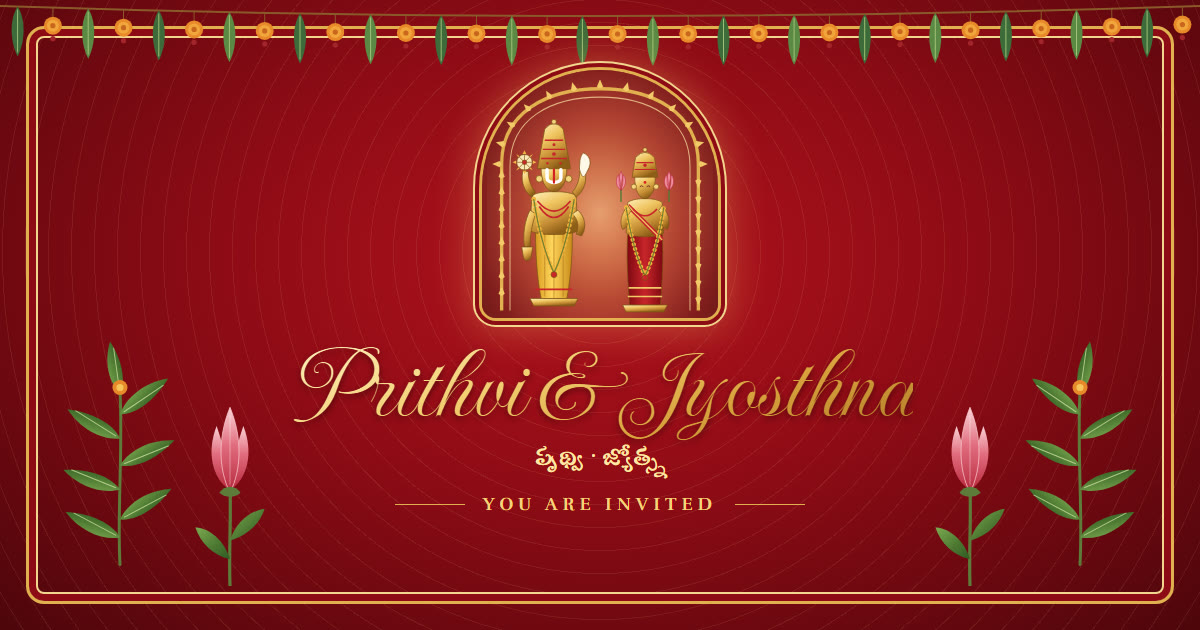
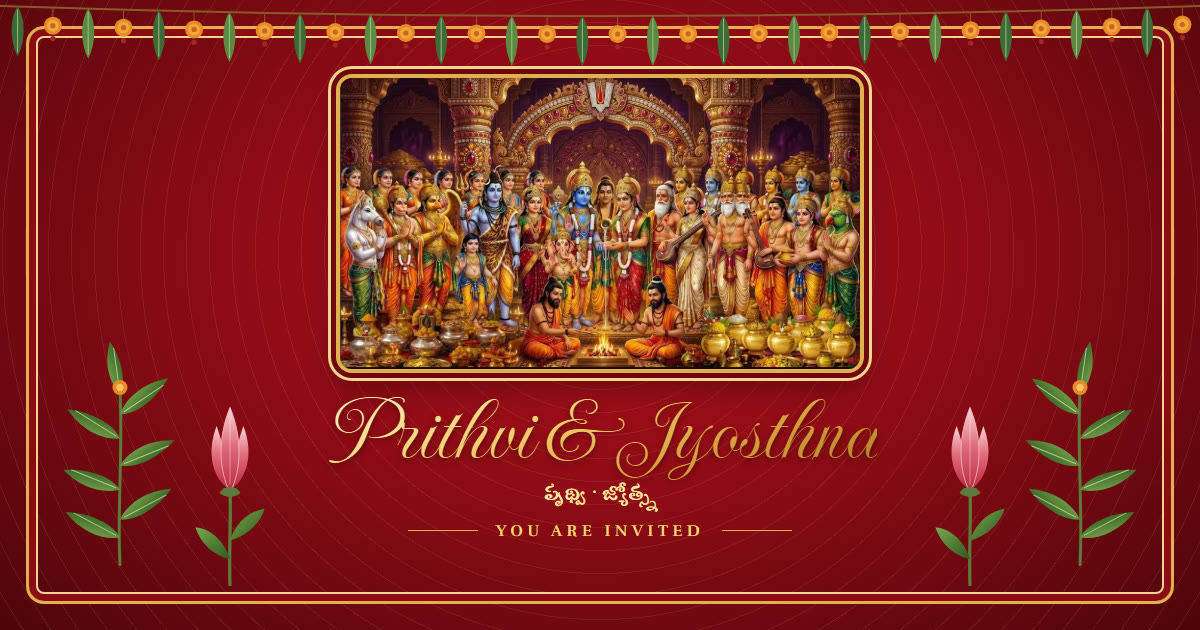
Hero back to names in the sanctum; Srinivasa Kalyanam painting above the mandapam and on the WhatsApp card

Changed region(s): [[0.2467, 0.0905, 0.7708, 0.8746]]

diff --git a/index.html b/index.html
@@ -306,7 +306,7 @@
       <div class="stage" id="stage">
 
         <!-- FAR: dawn sky, halo, string lights, ground, muggu -->
-        <svg class="layer l-far" viewBox="0 0 440 780" preserveAspectRatio="xMidYMid slice" aria-hidden="true">
+        <svg class="layer l-far" viewBox="0 -100 440 880" preserveAspectRatio="xMidYMid slice" aria-hidden="true">
           <defs>
             <linearGradient id="skyY" x1="0" x2="0" y1="0" y2="1">
               <stop offset="0" stop-color="#FBF3E4"/>
@@ -326,7 +326,7 @@
             </linearGradient>
             <filter id="softBlur" x="-20%" y="-50%" width="140%" height="200%"><feGaussianBlur stdDeviation="7"/></filter>
           </defs>
-          <rect x="-40" y="-80" width="520" height="940" fill="url(#skyY)"/>
+          <rect x="-40" y="-190" width="520" height="1050" fill="url(#skyY)"/>
           <ellipse class="halo" cx="220" cy="480" rx="270" ry="310" fill="url(#halo)"/>
           <!-- distant temple gopuram silhouettes -->
           <g fill="#D9A867" opacity=".55">
@@ -346,7 +346,7 @@
         </svg>
 
         <!-- INNER: kumkum-red sanctum with names & date, revealed when the tera is lowered -->
-        <svg class="layer l-inner" viewBox="0 0 440 780" preserveAspectRatio="xMidYMid slice" aria-hidden="true">
+        <svg class="layer l-inner" viewBox="0 -100 440 880" preserveAspectRatio="xMidYMid slice" aria-hidden="true">
           <defs>
             <clipPath id="opening"><path d="M94 690V430C94 400 140 384 220 382C300 384 346 400 346 430V690Z"/></clipPath>
             <radialGradient id="sanctum" cx="50%" cy="58%" r="70%">
@@ -388,81 +388,24 @@
               <path d="M209 430c0-13 5-20 11-20s11 7 11 20h3v3h-28v-3Z" fill="url(#bellG)"/>
               <circle cx="220" cy="436" r="2.6" fill="#8E5E18"/>
             </g>
-            <!-- SRINIVASA KALYANAM: Lord Srinivasa and Goddess Padmavati in the sanctum (revealed when the tera is lowered) -->
-            <g class="sanctum-text">
-              <defs>
-                <linearGradient id="dGold" x1="0" y1="0" x2=".5" y2="1"><stop offset="0" stop-color="#FFF2C0"/><stop offset=".4" stop-color="#F0C460"/><stop offset=".75" stop-color="#C38A33"/><stop offset="1" stop-color="#8E5E18"/></linearGradient>
-                <linearGradient id="dSilk" x1="0" x2="1"><stop offset="0" stop-color="#D99A20"/><stop offset=".45" stop-color="#FFD55C"/><stop offset="1" stop-color="#C98A18"/></linearGradient>
-                <linearGradient id="dSaree" x1="0" x2="1"><stop offset="0" stop-color="#7E0812"/><stop offset=".5" stop-color="#C8242B"/><stop offset="1" stop-color="#7E0812"/></linearGradient>
-                <radialGradient id="dGlow"><stop offset="0" stop-color="#FFE7A6" stop-opacity=".55"/><stop offset=".6" stop-color="#FFC66B" stop-opacity=".18"/><stop offset="1" stop-color="#FFC66B" stop-opacity="0"/></radialGradient>
-                <g id="garland">
-                  <path d="M28 88C34 128 44 156 50 168C56 156 66 128 72 88" fill="none" stroke="#F2B33D" stroke-width="5" stroke-linecap="round" stroke-dasharray=".1 5.4"/>
-                  <path d="M28 88C34 128 44 156 50 168C56 156 66 128 72 88" fill="none" stroke="#3E6B2C" stroke-width="1.4" stroke-opacity=".7"/>
-                  <circle cx="50" cy="170" r="3.2" fill="#C8242B"/>
-                </g>
-              </defs>
-              <ellipse cx="220" cy="520" rx="122" ry="140" fill="url(#dGlow)"/>
-              <!-- prabhavali (golden arch with flame points) -->
-              <path d="M126 614V474C126 424 170 402 220 402C270 402 314 424 314 474V614" fill="none" stroke="#E2B04F" stroke-width="3.2"/>
-              <path d="M134 614V476C134 430 174 410 220 410C266 410 306 430 306 476V614" fill="none" stroke="#FFE7A6" stroke-width="1" stroke-opacity=".7"/>
-              <g id="prabhaFlames" fill="#F3C969"></g>
-
-              <!-- Lord Srinivasa -->
-              <g transform="translate(132 430) scale(.88)" stroke="#7E5214" stroke-width=".8" stroke-linejoin="round">
-                <path d="M30 124C30 150 32 176 36 196H64C68 176 70 150 70 124Z" fill="url(#dSilk)"/>
-                <path d="M40 126V194M50 126V196M60 126V194" fill="none" stroke="#B0761A" stroke-width=".7"/>
-                <path d="M30 186H70" fill="none" stroke="#C8242B" stroke-width="2"/>
-                <path d="M26 84C34 80 42 80 50 80C58 80 66 80 74 84L76 122C70 128 30 128 24 122Z" fill="url(#dGold)"/>
-                <path d="M26 86C18 80 14 70 16 58L22 58C22 68 26 76 30 80Z" fill="url(#dGold)"/>
-                <path d="M74 86C82 80 86 70 84 58L78 58C78 68 74 76 70 80Z" fill="url(#dGold)"/>
-                <path d="M24 100C18 112 16 126 18 140L24 140C24 128 26 116 30 104Z" fill="url(#dGold)"/>
-                <path d="M15 140H27L25 152C23 156 19 156 17 152Z" fill="url(#dGold)"/>
-                <path d="M76 100C84 108 86 118 80 128L74 126C78 118 76 110 70 104Z" fill="url(#dGold)"/>
-                <!-- chakra (his right, viewer's left) and shankha (his left) -->
-                <g transform="translate(18 48)">
-                  <g fill="#F3B74A" stroke="none"><path d="M0 -13L2 -9H-2Z"/><path d="M0 13L2 9H-2Z"/><path d="M-13 0L-9 2V-2Z"/><path d="M13 0L9 2V-2Z"/><path d="M9 -9L6.4 -5L5 -6.4Z"/><path d="M-9 9L-6.4 5L-5 6.4Z"/><path d="M9 9L5 6.4L6.4 5Z"/><path d="M-9 -9L-5 -6.4L-6.4 -5Z"/></g>
-                  <circle r="8.5" fill="#FBE8B8"/><path d="M0 -8.5V8.5M-8.5 0H8.5M-6 -6L6 6M6 -6L-6 6" fill="none" stroke-width=".7"/><circle r="2.4" fill="#C8242B"/>
-                </g>
-                <path d="M82 38C88 40 90 46 89 51C88 55 86 58 84 62C83 64 81 64 80 62C78 58 77 54 78 50C78 44 80 39 82 38Z" fill="#FFF8EA"/>
-                <!-- face, kireetam, Thiru Namam -->
-                <path d="M36 54C36 70 42 80 50 80C58 80 64 70 64 54Z" fill="url(#dGold)"/>
-                <path d="M32 55L40 12Q50 0 60 12L68 55Z" fill="url(#dGold)"/>
-                <path d="M36 44H64M38 34H62M40 24H60" fill="none" stroke="#C8242B" stroke-width="1.6"/>
-                <circle cx="50" cy="4" r="2.6" fill="#F6D47E"/>
-                <g fill="#C8242B" stroke="none"><circle cx="50" cy="39" r="2"/><circle cx="50" cy="29" r="1.6"/><circle cx="43" cy="49" r="1.3"/><circle cx="57" cy="49" r="1.3"/></g>
-                <path d="M42.5 56V65C42.5 71.5 57.5 71.5 57.5 65V56" fill="none" stroke="#FFFFFF" stroke-width="3.8" stroke-linecap="round"/>
-                <path d="M50 56V70" fill="none" stroke="#D41F1F" stroke-width="2.4" stroke-linecap="round"/>
-                <circle cx="34" cy="66" r="3.6" fill="#F6D47E"/><circle cx="66" cy="66" r="3.6" fill="#F6D47E"/>
-                <path d="M32 90Q50 112 68 90M34 96Q50 120 66 96" fill="none" stroke="#C8242B" stroke-width="1.8"/>
-                <use href="#garland"/>
-                <path d="M24 196H76L72 204H28Z" fill="url(#dGold)"/>
+            <!-- names & date: soft halo + shadow copies instead of a blur filter -->
+            <g class="sanctum-text" text-anchor="middle">
+              <g fill="none" stroke="#FFC66B" stroke-opacity=".22" stroke-width="7" stroke-linejoin="round">
+                <text x="220" y="478" class="sv-name">Prithvi</text>
+                <text x="220" y="510" class="sv-amp">&amp;</text>
+                <text x="220" y="554" class="sv-name">Jyosthna</text>
               </g>
-
-              <!-- Goddess Padmavati -->
-              <g transform="translate(222 448) scale(.82)" stroke="#7E5214" stroke-width=".8" stroke-linejoin="round">
-                <path d="M30 110C28 140 30 170 32 196H68C70 170 72 140 70 110Z" fill="url(#dSaree)"/>
-                <path d="M30 186H70M31 176H69" fill="none" stroke="#F3C969" stroke-width="2"/>
-                <path d="M30 76C38 72 44 72 50 72C56 72 62 72 70 76L72 112C66 118 34 118 28 112Z" fill="url(#dGold)"/>
-                <path d="M30 80L70 120" fill="none" stroke="#C8242B" stroke-width="5"/>
-                <path d="M30 80L70 120" fill="none" stroke="#F3C969" stroke-width="1.6"/>
-                <path d="M30 80C22 90 20 100 24 108L30 104C28 98 30 90 34 86Z" fill="url(#dGold)"/>
-                <path d="M70 80C78 90 80 100 76 108L70 104C72 98 70 90 66 86Z" fill="url(#dGold)"/>
-                <!-- lotuses in both hands -->
-                <g transform="translate(22 62)"><path d="M0 14V-2" stroke="#4F7A34" stroke-width="1.6"/><path d="M0 0C-6 -4 -7 -12 -3 -18C-1 -12 0 -6 0 0ZM0 0C6 -4 7 -12 3 -18C1 -12 0 -6 0 0ZM0 0C-3 -8 -3 -16 0 -22C3 -16 3 -8 0 0Z" fill="#F08DA0" stroke="#B8283E" stroke-width=".6"/></g>
-                <g transform="translate(78 62)"><path d="M0 14V-2" stroke="#4F7A34" stroke-width="1.6"/><path d="M0 0C-6 -4 -7 -12 -3 -18C-1 -12 0 -6 0 0ZM0 0C6 -4 7 -12 3 -18C1 -12 0 -6 0 0ZM0 0C-3 -8 -3 -16 0 -22C3 -16 3 -8 0 0Z" fill="#F08DA0" stroke="#B8283E" stroke-width=".6"/></g>
-                <!-- face and crown -->
-                <path d="M38 46C38 62 43 72 50 72C57 72 62 62 62 46Z" fill="url(#dGold)"/>
-                <path d="M35 47L39 24Q50 12 61 24L65 47Z" fill="url(#dGold)"/>
-                <path d="M38 38H62M40 30H60" fill="none" stroke="#C8242B" stroke-width="1.4"/>
-                <circle cx="50" cy="15" r="2.4" fill="#F6D47E"/>
-                <circle cx="50" cy="33" r="2" fill="#C8242B" stroke="none"/>
-                <circle cx="50" cy="53" r="1.6" fill="#D41F1F" stroke="none"/>
-                <path d="M44 58Q46 56 48 58M52 58Q54 56 56 58" fill="none" stroke="#5E0610" stroke-width=".9"/>
-                <circle cx="37" cy="58" r="3" fill="#F6D47E"/><circle cx="63" cy="58" r="3" fill="#F6D47E"/>
-                <path d="M36 84Q50 100 64 84" fill="none" stroke="#C8242B" stroke-width="1.8"/>
-                <use href="#garland" transform="translate(0 -6)"/>
-                <path d="M24 196H76L72 204H28Z" fill="url(#dGold)"/>
+              <g fill="#2A0606" fill-opacity=".6" transform="translate(0 1.6)">
+                <text x="220" y="478" class="sv-name">Prithvi</text>
+                <text x="220" y="510" class="sv-amp">&amp;</text>
+                <text x="220" y="554" class="sv-name">Jyosthna</text>
+                <text x="220" y="596" class="sv-subha">శుభ వివాహం</text>
               </g>
+              <text x="220" y="478" class="sv-name" fill="url(#nameGold)">Prithvi</text>
+              <text x="220" y="510" class="sv-amp" fill="#F3C969">&amp;</text>
+              <text x="220" y="554" class="sv-name" fill="url(#nameGold)">Jyosthna</text>
+              <path d="M168 568H272" stroke="#F3C969" stroke-width=".8" opacity=".7"/>
+              <text x="220" y="596" class="sv-subha" fill="#FFD58C">శుభ వివాహం</text>
             </g>
             <!-- tera: the cloth screen held between bride and groom, lowered at the muhurtham -->
             <g class="tera">
@@ -484,7 +427,7 @@
 
 
         <!-- MANDAPAM: solid gold frame -->
-        <svg class="layer l-mandapam" id="sheenLayer" viewBox="0 0 440 780" preserveAspectRatio="xMidYMid slice" aria-hidden="true">
+        <svg class="layer l-mandapam" id="sheenLayer" viewBox="0 -100 440 880" preserveAspectRatio="xMidYMid slice" aria-hidden="true">
           <defs>
             <linearGradient id="cyl" x1="0" x2="1">
               <stop offset="0" stop-color="#6E4610"/>
@@ -561,13 +504,14 @@
         <!-- TEXT above the roof -->
         <div class="layer l-text">
           <div class="hero-text">
-            <p class="h-sk te">శ్రీనివాస కళ్యాణం</p>
-            <p class="h-names"><span>Prithvi</span> <i>&amp;</i> <span>Jyosthna</span></p>
+            <figure class="sk-image">
+              <img src="assets/srinivasa-kalyanam.webp" alt="Srinivasa Kalyanam: the celestial wedding of Lord Srinivasa and Goddess Padmavati, blessed by the gods" width="870" height="487" fetchpriority="high" decoding="async">
+            </figure>
           </div>
         </div>
 
         <!-- FRONT: banana plants, deepams, homam -->
-        <svg class="layer l-front" viewBox="0 0 440 780" preserveAspectRatio="xMidYMid slice" aria-hidden="true">
+        <svg class="layer l-front" viewBox="0 -100 440 880" preserveAspectRatio="xMidYMid slice" aria-hidden="true">
           <defs>
             <radialGradient id="flameG" cx="50%" cy="75%" r="65%">
               <stop offset="0" stop-color="#FFF8DC"/>

diff --git a/style.css b/style.css
@@ -897,3 +897,12 @@ a { color: inherit; }
 @media (prefers-reduced-motion: reduce) {
   .sec.r3d, .r-card, .js .rv, .js [data-fadeup], .js [data-fade-late], .js .tl-item { animation: none !important; opacity: 1 !important; transform: none !important; }
 }
+
+/* hero: taller sky so the Srinivasa Kalyanam painting sits between the thoranam and the kalasam */
+.hero-scene { aspect-ratio: 440 / 880; max-height: none; }
+.l-text .hero-text { top: 13.5%; }
+.sk-image {
+  margin: 0; width: 80cqw; aspect-ratio: 870 / 487; border-radius: 1.6cqw; overflow: hidden;
+  box-shadow: 0 0 0 .6cqw #E2B04F, 0 0 0 1.4cqw #8E0B16, 0 0 0 1.8cqw #F3D58E, 0 2.4cqw 5cqw rgba(90, 40, 10, .35);
+}
+.sk-image img { display: block; width: 100%; height: 100%; object-fit: cover; }
